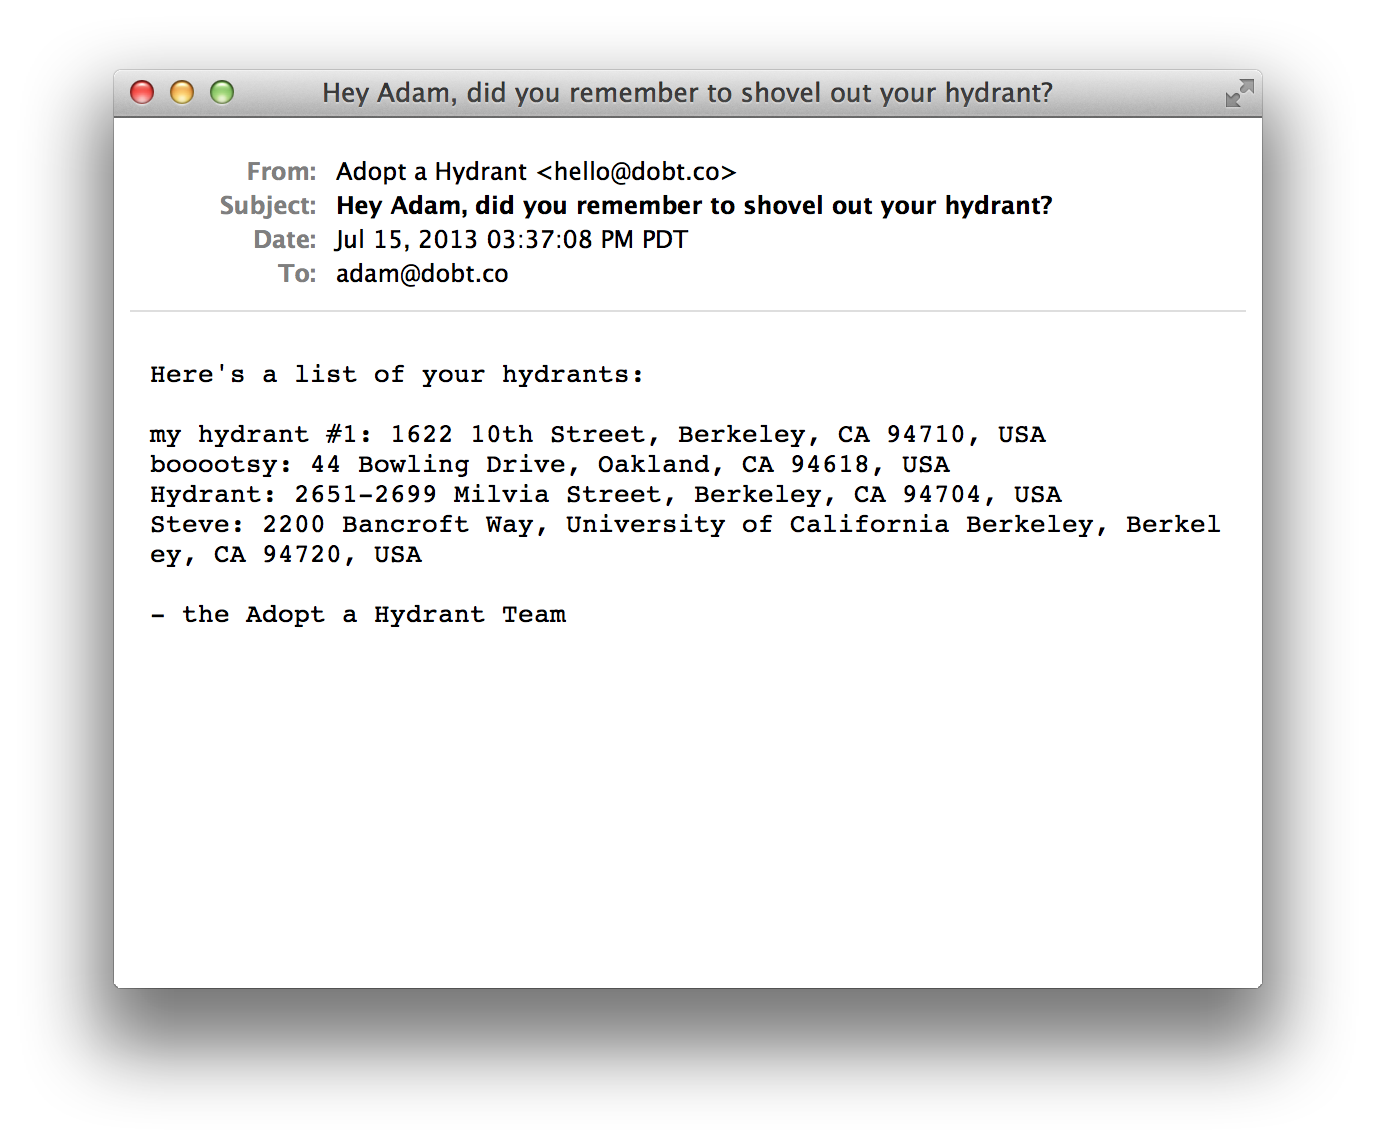
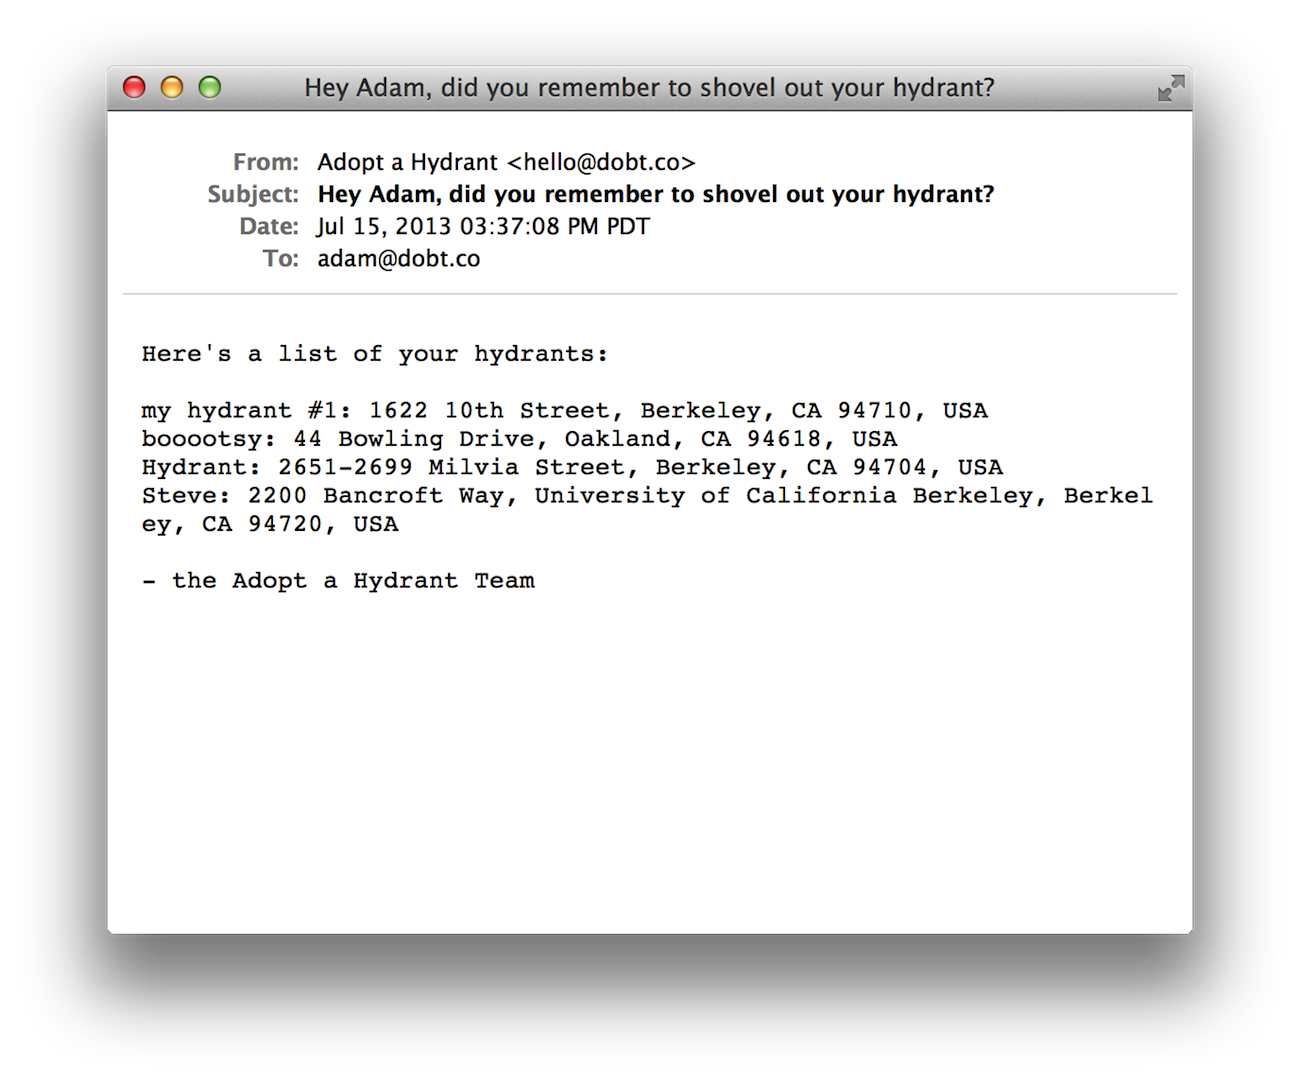
resize images, add civic answers

diff --git a/civic_answers.html b/civic_answers.html
@@ -1,0 +1,27 @@
+---
+layout: app
+body_class: app
+meta_description: "Civic Answers allows residents to search for answers about city services as if they were typing questions into Google."
+title: Civic Answers
+permalink: "/civic-answers/"
+
+app:
+  name: Civic Answers
+  header: "Civic Answers is a new kind of web portal for your city."
+  tagline: "With Civic Answers, residents can search for answers about city services as if they were typing questions into Google. It was originally built by <a href='http://www.codeforamerica.org' target='_blank'>Code for America</a> fellows for the City of Honolulu, and we're helping it spread across the country."
+  main_screenshot: "/img/civic-answers/1.png"
+
+  features: [
+    {
+      name: "Clear and concise",
+      description: "Civic Answers aims to provide residents with clear, easy-to-understand answers to their most frequently asked questions. We can work with your content management team to help populate the site's content, or we can help organize a community write-a-thon where everyday citizens help contribute questions and answers.<br /><br />We can even analyze your current website, and provide a list of the most requested content.",
+      screenshot: "/img/civic-answers/2.png"
+    },
+    {
+      name: "Smart searching",
+      description: "Type a question in plain language, and Civic Answers will parse it and return the relevant results. It even matches synonyms, so if you “found a lost puppy”, it knows you need the article on missing dogs.",
+      screenshot: "/img/civic-answers/3.png"
+    }
+  ]
+---
+

diff --git a/index.html b/index.html
@@ -98,7 +98,7 @@ body_class: splash
         </a>
       </div>
       <div class='app large-6 small-12 columns'>
-        <a href='#'>
+        <a href='/civic-answers/'>
           <span class='app-icon-wrapper'>
             <span class='icon icon-comment'></span>
           </span>
